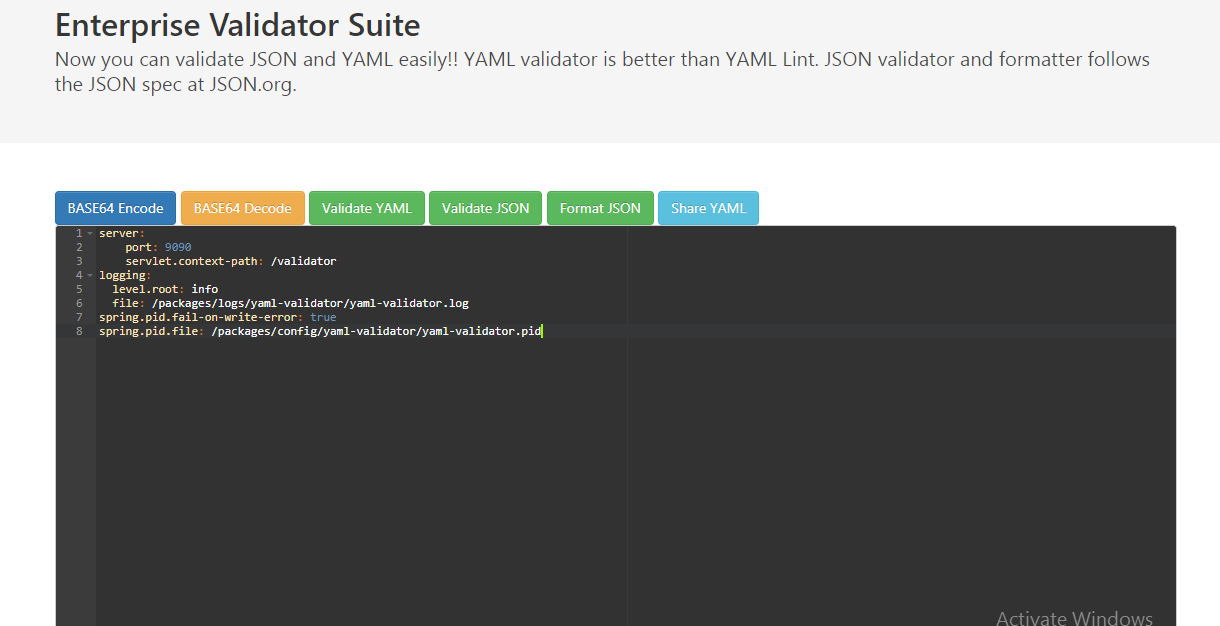
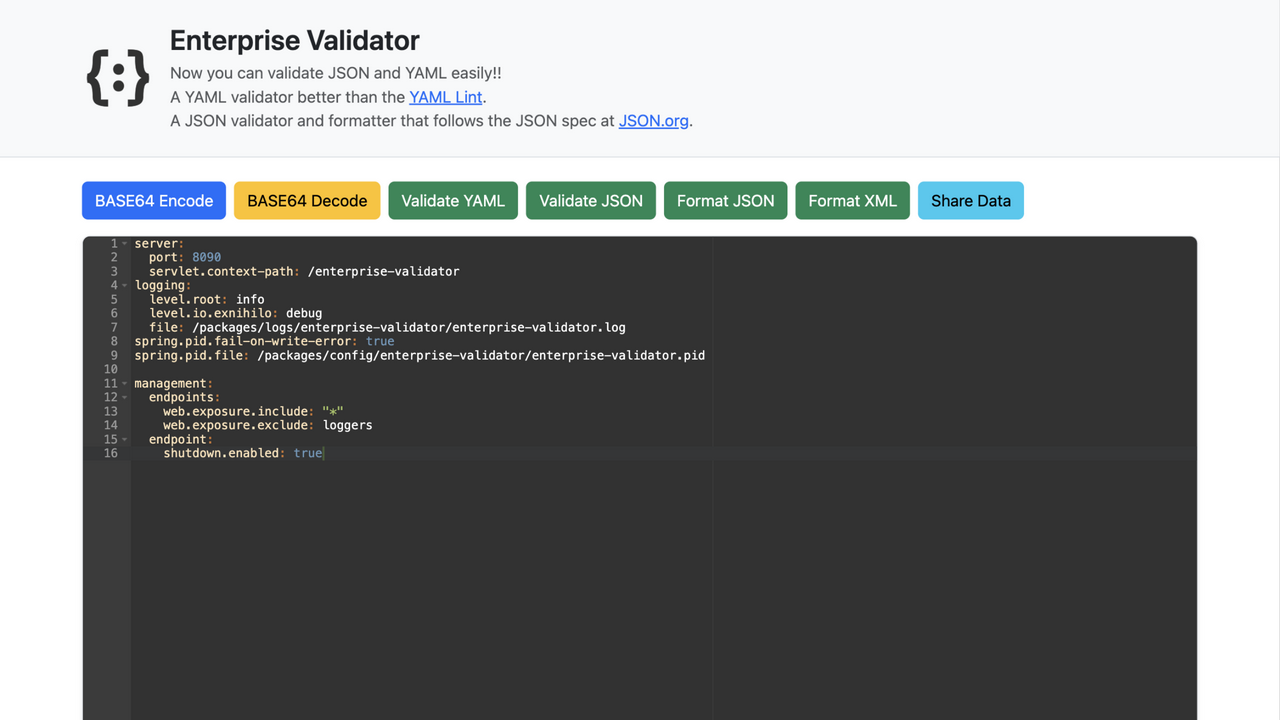
docs: refresh README with the redesigned UI screenshot
- Replace the 2020 screenshot with the current Bootstrap 5 editor
  (validated state with the result banner)
- Restructure into Features / How to use / Under the hood / Develop
  locally; fix the wrong How-to lines (decode listed as encode,
  'Format YAML' for JSON) and describe the new share menu
- Drop the empty Jira placeholder section; point issue reporting to
  GitHub Issues (enabled on the repo)
- Add MIT license badge

Changed region(s): [[0.0311, 0.2428, 0.9656, 1.0], [0.0311, 0.0304, 0.9344, 0.1821], [0.9967, 0.2125, 1.0, 1.0]]

diff --git a/.github/README.md b/.github/README.md
@@ -1,66 +1,79 @@
-
-# Welcome to the Enterprise Validator
+# Enterprise Validator
 
 ![GitHub release](https://img.shields.io/github/release/anandvarkeyphilips/enterprise-validator.svg)
 [![CI](https://github.com/anandvarkeyphilips/enterprise-validator/actions/workflows/ci.yml/badge.svg)](https://github.com/anandvarkeyphilips/enterprise-validator/actions/workflows/ci.yml)
 [![GitHub issues](https://img.shields.io/github/issues/anandvarkeyphilips/enterprise-validator.svg)](https://github.com/anandvarkeyphilips/enterprise-validator/issues)
 [![GitHub forks](https://img.shields.io/github/forks/anandvarkeyphilips/enterprise-validator.svg)](https://github.com/anandvarkeyphilips/enterprise-validator/network)
-[![Gitter chat](https://badges.gitter.im/gitterHQ/gitter.png)](https://gitter.im/enterprise-validator/Lobby)
+[![License: MIT](https://img.shields.io/badge/License-MIT-blue.svg)](LICENSE)
 
-### Getting Started
+A self-contained Spring Boot application for enterprises that cannot use public websites for data
+validation and manipulation — everything runs locally, no external services are called.
 
-This Spring Boot Fully executable stand alone application is made for enterprises which cannot access/use public
-websites for data validation and manipulation. This app provides,
+**Try it live:** https://enterprise-validator.azurewebsites.net/editor
 
-YAML validator which is better than http://www.yamllint.com as this app follows YAML spec, support multiple doc feature
-which is not supported my YAML Lint. JSON validator and formatter follows the JSON spec at http://json.org/. Also, now 
-you dont have to use https://www.base64decode.org/ as this app also provides options for Decode from and to Base64 format.
+![Enterprise Validator Suite](https://github.com/anandvarkeyphilips/enterprise-validator/blob/master/.github/README-IMAGES/enterprise-validator.png?raw=true)
 
-Here's the current deployment hosted as an Azure App Service (Java 25):
-**https://enterprise-validator.azurewebsites.net/editor**  
+## Features
+
+* **YAML validation** following the YAML spec, including multi-document (`---`) support that
+  http://www.yamllint.com does not offer — with line and column markers on the failing key.
+* **JSON validation and formatting** per the JSON spec at http://json.org/.
+* **XML formatting** with pretty printing.
+* **Base64 encoding and decoding** — no need for https://www.base64decode.org/.
+* **Share** the editor content by copying it to the clipboard or opening a pre-filled email.
+* **OpenAPI / Swagger UI** documentation of every endpoint at `/swagger-ui.html`.
+
+## How to use
+
+* Click **Validate YAML** / **Validate JSON** to validate the editor content.
+* Click **Format JSON** / **Format XML** to pretty print the editor content.
+* Click **BASE64 Encode** / **BASE64 Decode** to convert the editor content.
+* Click **Share Data** to copy the data to the clipboard or open it in your mail client.
+
+## Under the hood
+
+* Java 25 (LTS, Azul Zulu) — pinned via `.sdkmanrc` (`sdk env` selects it automatically)
+* Spring Boot 3.5.16, Maven 3.9.16 via the wrapper (`./mvnw clean verify`)
+* spring-boot-starter-web, spring-boot-starter-freemarker, spring-boot-starter-actuator
+* springdoc-openapi, org.json, snakeyaml, lombok, jackson-databind
+* CI/CD on GitHub Actions: build + coverage/mutation gates, Playwright end-to-end tests,
+  OIDC deploy to Azure App Service (Java 25 runtime), releases published to Maven Central
+* Docker base image: `azul/zulu-openjdk-alpine:25-jre`
+
+## Develop locally
+
+```bash
+sdk env                       # select Zulu JDK 25 (or install: sdk install java 25.0.5.0+8-zulu)
+./mvnw clean verify           # build, tests, JaCoCo + PIT mutation gates
+./mvnw -DskipTests package && java -jar target/enterprise-validator-*.jar --server.port=8080
+cd e2e && npx playwright test # browser end-to-end suite against the packaged jar
+```
 
 <details>
 <summary>Deprecated deployments (no longer active, kept for reference)</summary>
 
-Here's the Docker container version of the Application hosted in Microsoft Azure Container Instances (DEPRECATED — no longer active):  
-**http://enterprise-validator.centralus.azurecontainer.io:8090/enterprise-validator/editor**  
-Here's the fatty jar Application running in Microsoft Azure RHEL VM (DEPRECATED — no longer active):  
-**http://varkeys-rhel-jenkins.westus.cloudapp.azure.com/enterprise-validator/editor**  
-Here's the Openshift version of the Application hosted in Redhat Openshift (DEPRECATED — no longer active):  
-**http://enterprise-validator-enterprise-validator.7e14.starter-us-west-2.openshiftapps.com/editor**  
+Here's the Docker container version of the Application hosted in Microsoft Azure Container Instances (DEPRECATED — no longer active):
+**http://enterprise-validator.centralus.azurecontainer.io:8090/enterprise-validator/editor**
+Here's the fatty jar Application running in Microsoft Azure RHEL VM (DEPRECATED — no longer active):
+**http://varkeys-rhel-jenkins.westus.cloudapp.azure.com/enterprise-validator/editor**
+Here's the Openshift version of the Application hosted in Redhat Openshift (DEPRECATED — no longer active):
+**http://enterprise-validator-enterprise-validator.7e14.starter-us-west-2.openshiftapps.com/editor**
 </details>
 
-![Enterprise Validator Suite](https://github.com/anandvarkeyphilips/enterprise-validator/blob/master/.github/README-IMAGES/enterprise-validator.png?raw=true)
+## Report an issue
 
-### Recipe Ingredients
- * spring-boot-starter-web, spring-boot-starter-freemarker, spring-boot-starter-actuator
- * springdoc-openapi (Swagger UI), org.json, snakeyaml, lombok, jackson-databind, spring-boot-test
+Found a bug or have an idea? Please [open a GitHub issue](https://github.com/anandvarkeyphilips/enterprise-validator/issues) —
+include the input data and the validation message whenever possible.
 
-### Toolchain
- * Java 25 (latest LTS) — pinned via `.sdkmanrc` (`sdk env` selects Azul Zulu 25 automatically; installed with `sdk install java 25.0.5.0+8-zulu`)
- * Spring Boot 3.5.16, Maven 3.9.16 (via the wrapper: `./mvnw clean verify`)
- * Docker base image: `azul/zulu-openjdk-alpine:25-jre`
+## Help and support
 
+Join the [Gitter chat](https://gitter.im/enterprise-validator/Lobby/).
 
-### How to?
-* Click on "BASE 64Encode" to encode to Base64 format.
-* Click on "BASE 64Encode" to decode from Base64 format.
-* Click on "Validate YAML" to validate YAML data.
-* Click on "Validate JSON" to validate JSON data.
-* Click on "Format YAML" to format JSON data.
-* Click on "Share Data" to share the data through configured Mailing App.
+## Change log
 
+See the changes in each release [here](https://github.com/anandvarkeyphilips/enterprise-validator/releases).
 
-### Jira
-* [Epic](https://jira.global.atlassian.com/browse/<JIRA-ID>) - Work in Progress
+## Want to contribute?
 
-### For help and support,
-Please contact: [Join the Gitter Chat](https://gitter.im/enterprise-validator/Lobby/)
-
-### Change Log
- 
- * You can view the changes in each releases [here](https://github.com/anandvarkeyphilips/enterprise-validator/releases).
- 
-### Want to Contribute?
-  * We love participation. We are ready to listen and discuss about changing underlying technologies or anything..
-    You can check the document [here](CONTRIBUTING.md).
+We love participation and are ready to discuss changing underlying technologies or anything else.
+See [CONTRIBUTING.md](CONTRIBUTING.md).
